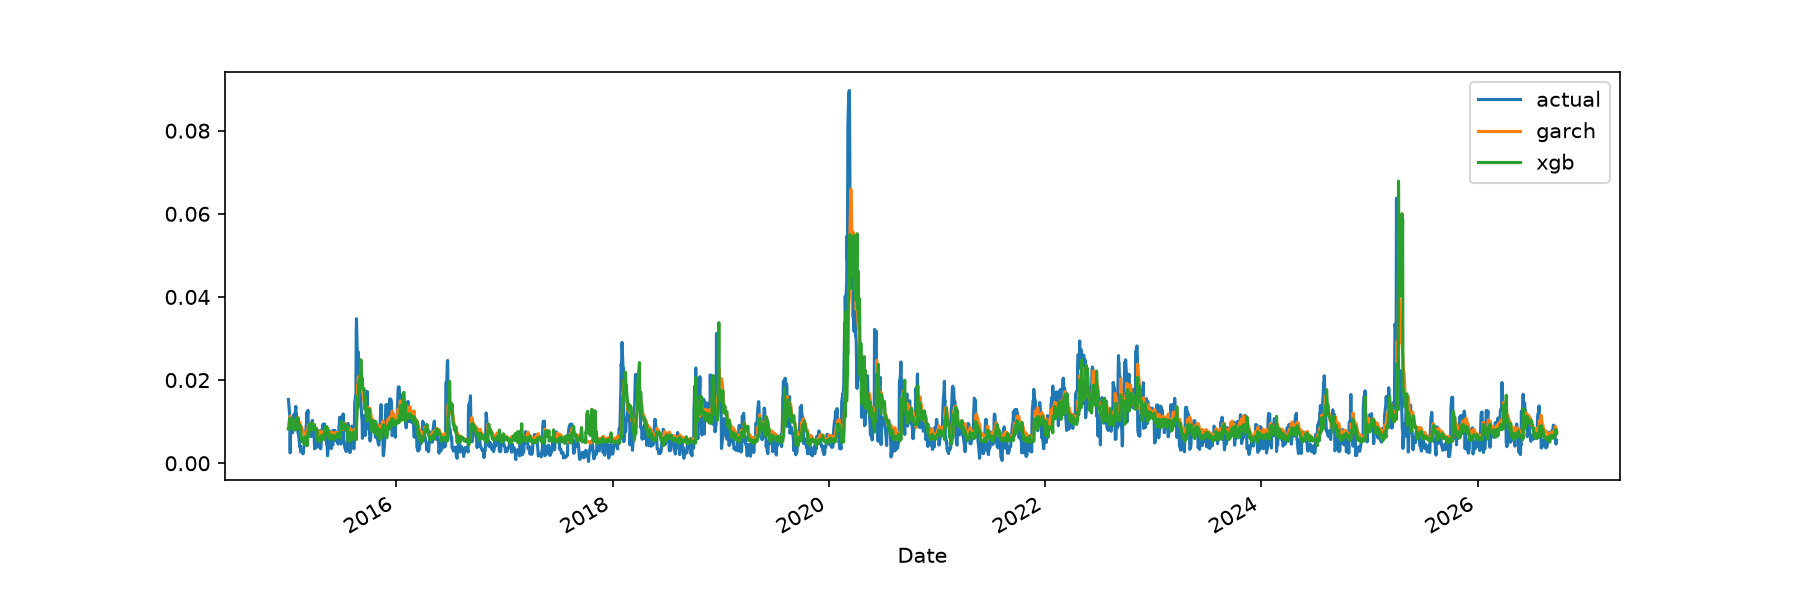
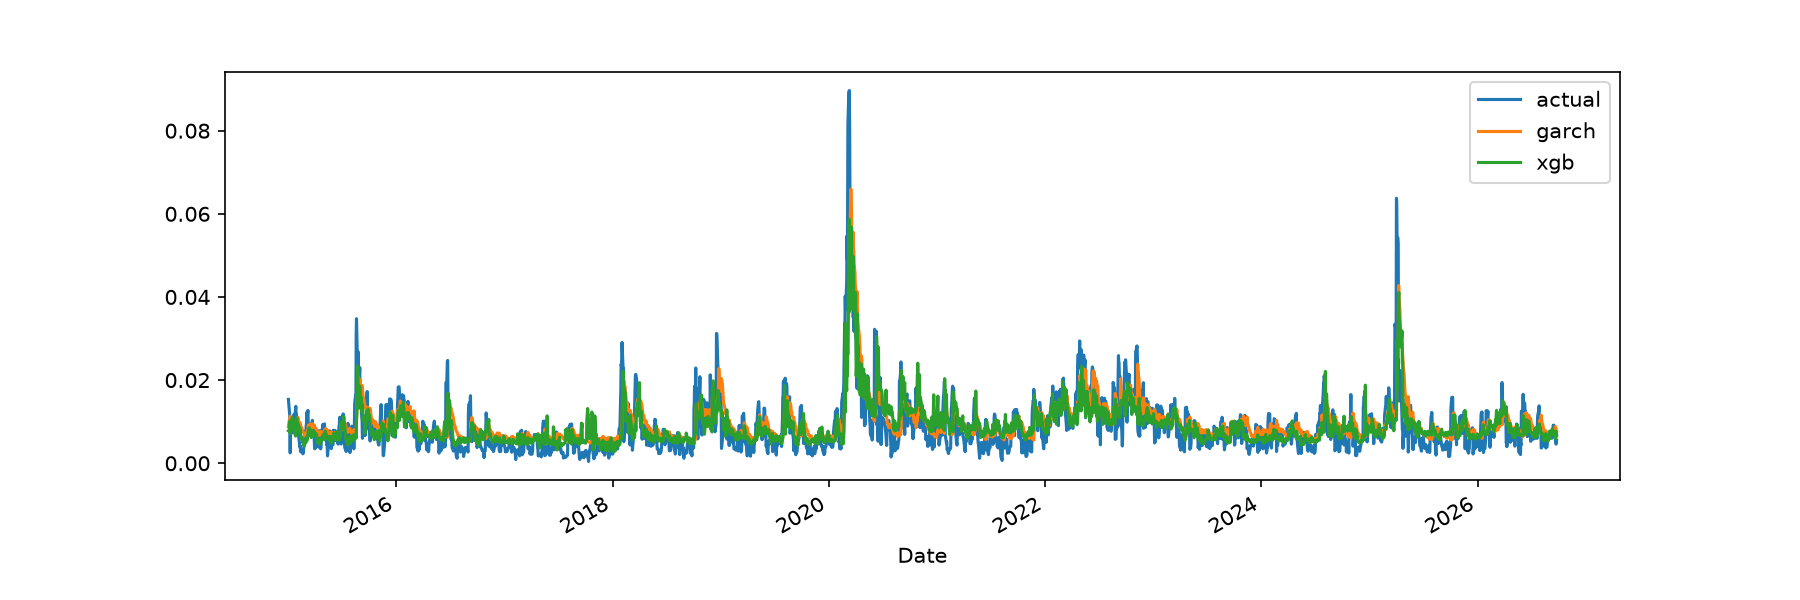
Add VIX features

Changed region(s): [[0.1556, 0.45, 0.8711, 0.75], [0.4667, 0.39, 0.4978, 0.42]]

diff --git a/vol_model.py b/vol_model.py
@@ -4,6 +4,10 @@ import numpy as np, pandas as pd, yfinance as yf
 df = yf.download('SPY', start='2005-01-01', auto_adjust=True)
 df.columns = df.columns.get_level_values(0)
 df['ret'] = np.log(df['Close']).diff()
+vix = yf.download('^VIX', start='2005-01-01', auto_adjust=True)
+vix.columns = vix.columns.get_level_values(0)
+df['vix'] = vix['Close'] / 100 / np.sqrt(252)
+df['vix_chg'] = df['vix'].diff()
 print(df.tail())
 
 H = 5
@@ -15,7 +19,7 @@ df['abs_ret'] = df['ret'].abs()
 df['vol_chg'] = np.log(df['Volume']).diff()
 
 df = df.dropna()
-feats = ['rv5', 'rv10', 'rv20', 'abs_ret', 'vol_chg']
+feats = ['rv5', 'rv10', 'rv20', 'abs_ret', 'vol_chg', 'vix', 'vix_chg']
 
 from sklearn.linear_model import LinearRegression
 from sklearn.ensemble import RandomForestRegressor
